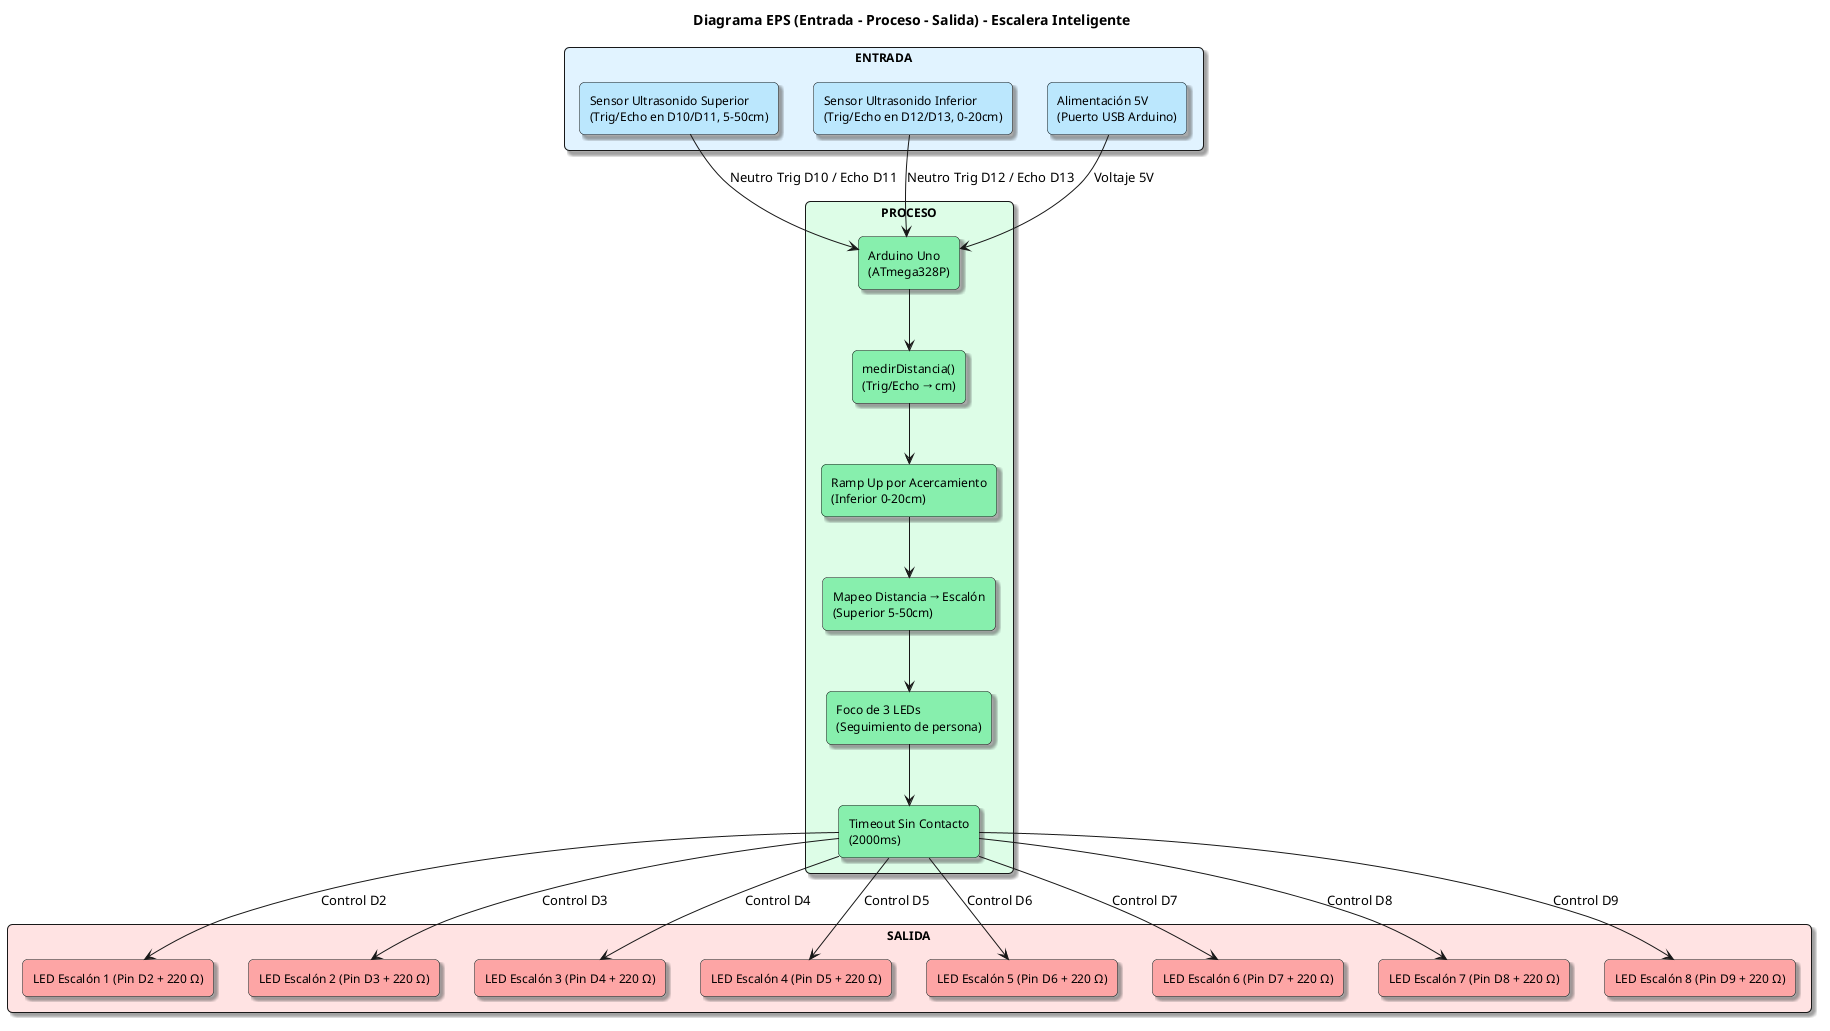
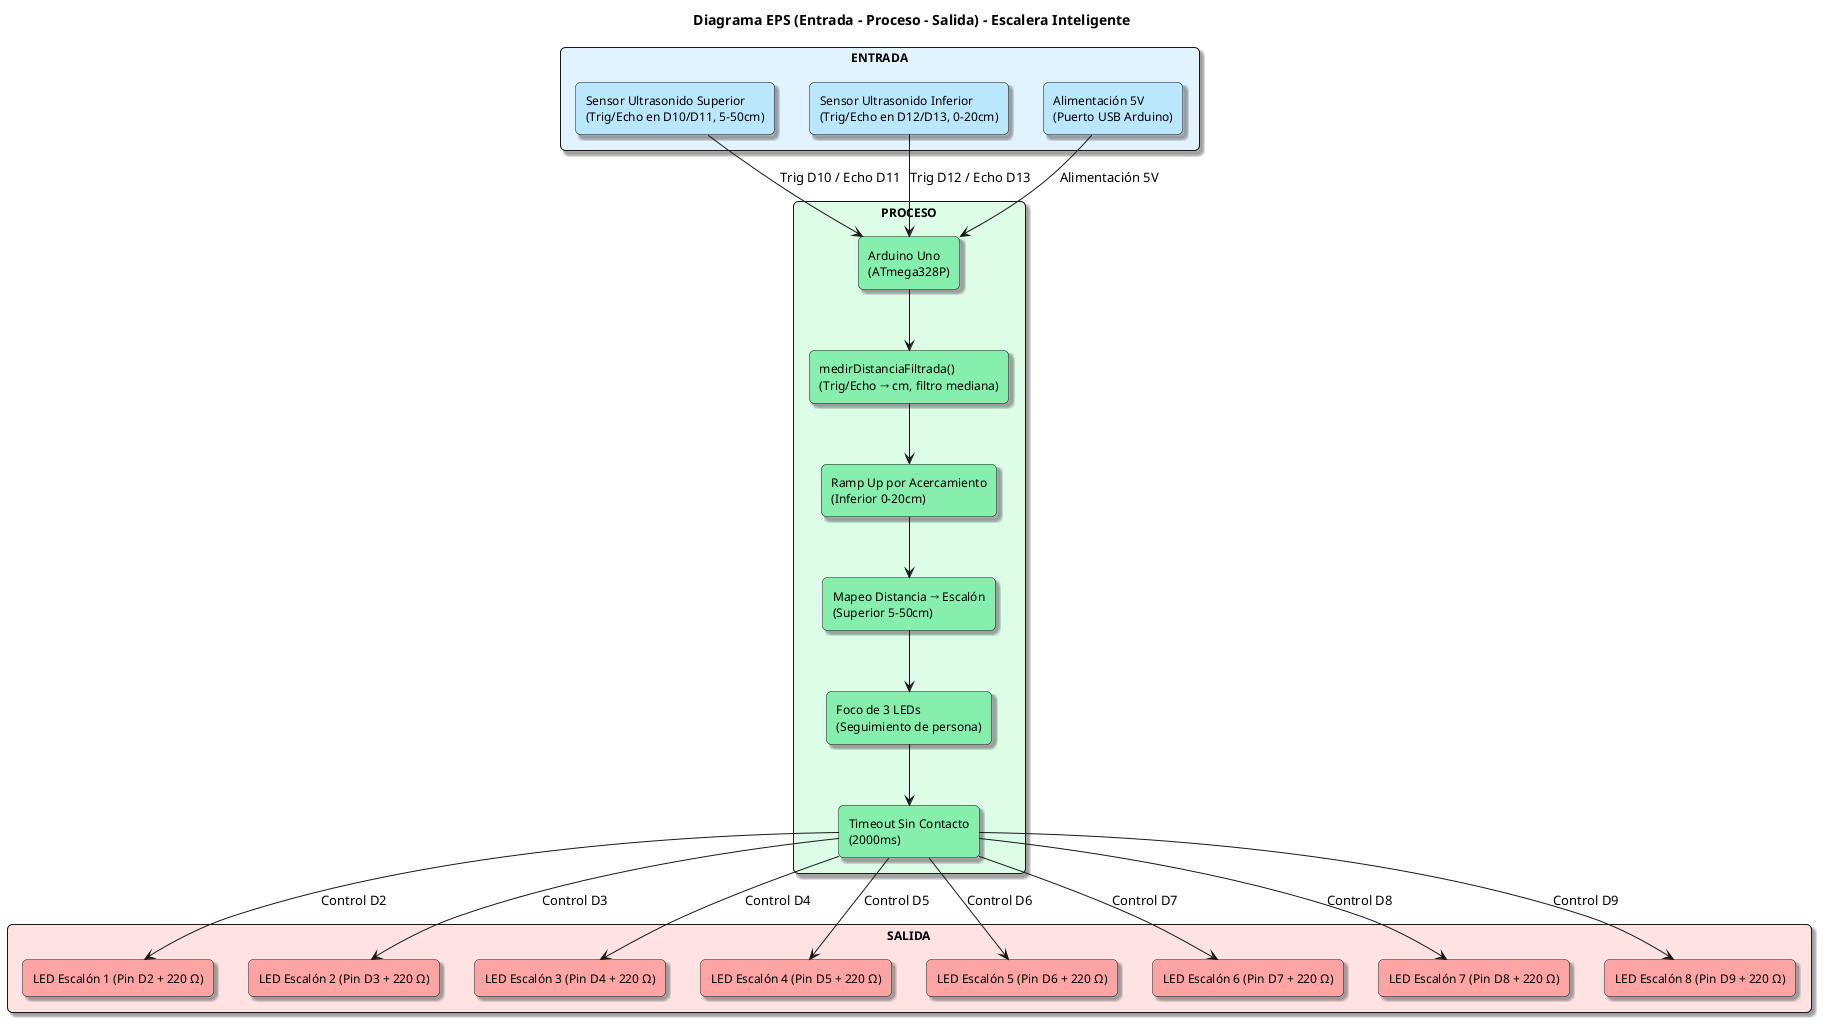
docs: actualizar documentacion, diagramas y agregar enlace al simulador Tinkercad

Changed region(s): [[0.4049, 0.1552, 0.623, 0.8691], [0.3115, 0.0621, 0.6852, 0.1552], [0.4672, 0.031, 0.4984, 0.0621]]

diff --git a/docs/logica.md b/docs/logica.md
@@ -48,30 +48,45 @@ Describe la interacción entre el hardware físico (sensores), el microcontrolad
 ## 4. Conceptos Clave de Implementación
 
 ### Medición de Distancia (`medirDistancia`)
-Función estándar para HC-SR04: emite pulso de trig (10 µs), mide el ancho del pulso de echo con `pulseIn()` y convierte a centímetros:
+Función básica para HC-SR04: emite pulso de Trigger (10 µs), mide el ancho del pulso en Echo con `pulseIn()` (timeout de 10 ms) y convierte a centímetros:
 ```cpp
-long duracion = pulseIn(pinEcho, HIGH, 30000);
+long duracion = pulseIn(pinEcho, HIGH, 10000);
 if (duracion == 0) return -1.0;      // sin eco (objeto fuera de rango)
 return duracion * 0.034 / 2.0;       // cm
 ```
-Si no hay eco en 30 ms, se devuelve `-1` para ignorar la lectura.
 
-### Ramp Up por Acercamiento (sensor inferior)
-Mientras la persona se acerca (distancia de 20 cm a 0 cm), aumenta el número de LEDs encendidos desde la parte baja:
+### Filtrado por Mediana (`medirDistanciaFiltrada`)
+Para evitar lecturas erráticas producidas por ruido acústico o reflexiones, se toman 3 muestras consecutivas (separadas por 40 ms) y se obtiene la mediana ordenando el arreglo:
 ```cpp
-int cantidadLEDs = map(distanciaInferior, 20, 0, 1, 8);
-cantidadLEDs = constrain(cantidadLEDs, 1, 8);
+float medirDistanciaFiltrada(int pinTrig, int pinEcho) {
+  float muestras[CANTIDAD_MUESTRAS];
+  for (int i = 0; i < CANTIDAD_MUESTRAS; i++) {
+    muestras[i] = medirDistancia(pinTrig, pinEcho);
+    if (i < CANTIDAD_MUESTRAS - 1) delayMicroseconds(40000);
+  }
+  // Ordenamiento para seleccionar la mediana
+  ...
+  return muestras[CANTIDAD_MUESTRAS / 2];
+}
 ```
 
-### Mapeo distancia → escalón (sensor superior)
-La distancia se convierte en el escalón donde se encuentra la persona:
+### Ramp Up por Acercamiento (`encenderRango`)
+Mientras la persona se acerca (distancia de 20 cm a 0 cm en sensor inferior), se encienden progresivamente los LEDs desde la base:
 ```cpp
-int escalonActual = map(distanciaSuperior, 5, 50, 7, 0);  // 5cm=arriba, 50cm=abajo
-escalonActual = constrain(escalonActual, 0, 7);
+int cantidadLEDs = map(distanciaInferior, DIST_INFERIOR_MAX, 0, 1, CANTIDAD_LEDS);
+cantidadLEDs = constrain(cantidadLEDs, 1, CANTIDAD_LEDS);
+encenderRango(cantidadLEDs);
 ```
 
-### Foco de 3 LEDs
-Se encienden el escalón actual más sus vecinos (radio = 1); el resto quedan apagados, por lo que las luces **siguen** a la persona en ambas direcciones:
+### Mapeo Distancia → Escalón (Sensor Superior)
+La distancia medida por el sensor superior se convierte en el índice del escalón donde se encuentra la persona:
+```cpp
+int escalonActual = map(distanciaSuperior, DIST_SUPERIOR_MIN, DIST_SUPERIOR_MAX, CANTIDAD_LEDS - 1, 0);  // 5cm=arriba (7), 50cm=abajo (0)
+escalonActual = constrain(escalonActual, 0, CANTIDAD_LEDS - 1);
+```
+
+### Foco Móvil de 3 LEDs (`encenderFoco`)
+Se encienden el escalón actual y sus vecinos adyacentes (`radio = 1`); el resto de escalones se mantienen apagados, logrando que el foco lumínico acompañe dinámicamente el desplazamiento:
 ```cpp
 void encenderFoco(int centro, int radio) {
   for (int i = 0; i < CANTIDAD_LEDS; i++) {
@@ -81,13 +96,26 @@ void encenderFoco(int centro, int radio) {
 }
 ```
 
-### Timeout sin contacto
-Si el sensor superior no detecta objeto durante 2 s, el sistema apaga todo y vuelve a `ESPERANDO`.
+### Timeout sin Contacto
+Si el sensor superior no detecta presencia durante más de 2000 ms (`TIEMPO_SIN_CONTACTO_MAX`), se invoca `apagarTodos()` y el sistema retorna al estado `ESPERANDO`.
 
 ---
 
 ## 5. Parámetros del Sistema
 
-- **Alcance inferior (`DIST_INFERIOR_MAX`):** 20 cm.
-- **Alcance superior (`DIST_SUPERIOR_MIN`/`MAX`):** 5 a 50 cm.
-- **Timeout sin contacto (`TIEMPO_SIN_CONTACTO_MAX`):** 2000 ms.
+| Parámetro | Constante | Valor | Descripción |
+|-----------|-----------|:-----:|-------------|
+| Cantidad de LEDs | `CANTIDAD_LEDS` | 8 | Un LED por escalón (D2 a D9) |
+| Alcance inferior | `DIST_INFERIOR_MAX` | 20.0 cm | Distancia de activación para acercamiento |
+| Alcance superior mín. | `DIST_SUPERIOR_MIN` | 5.0 cm | Distancia correspondiente al escalón superior (8) |
+| Alcance superior máx. | `DIST_SUPERIOR_MAX` | 50.0 cm | Distancia correspondiente al escalón inferior (1) |
+| Timeout sin contacto | `TIEMPO_SIN_CONTACTO_MAX` | 2000 ms | Tiempo de espera antes de apagar luces |
+| Muestras de filtro | `CANTIDAD_MUESTRAS` | 3 | Lecturas para cálculo de mediana |
+
+---
+
+## 6. Probar en Simulador
+
+Puedes validar y observar el comportamiento de la máquina de estados en el simulador interactivo:
+
+🔗 **[Abrir Simulación en Tinkercad](https://www.tinkercad.com/things/0pheYHJu6yR-lus-escaleras-arduino/editel?returnTo=https%3A%2F%2Fwww.tinkercad.com%2Fdashboard&sharecode=S3InYTMaIszsQmBVlUAJu1_tCbUvaevH3J8RIkOQQLU)**

diff --git a/README.md b/README.md
@@ -18,11 +18,21 @@ a la persona con un foco de luz mientras sube o baja.
 
 | Cantidad | Componente | Conexión |
 |:--------:|------------|----------|
-| 1 | Arduino Uno | Alimentación por USB |
+| 1 | Arduino Uno | Alimentación por USB (5V) |
 | 8 | LED Blanco (Escalones 1 al 8) | Pines D2 a D9 |
 | 8 | Resistencia 220 Ω | En serie con cada LED |
-| 2 | Sensor Ultrasonido HC-SR04 | Superior Trig/echo D10/D11, Inferior Trig/echo D12/D13 |
+| 2 | Sensor Ultrasonido HC-SR04 | Superior Trig/Echo D10/D11, Inferior Trig/Echo D12/D13 |
 | — | Protoboard y Jumpers | Interconexión de componentes |
+
+---
+
+## 🌐 Simulación Interactiva en Tinkercad
+
+Puedes probar el circuito completo y ejecutar la simulación de manera interactiva directamente desde el navegador:
+
+🔗 **[Abrir Simulador en Tinkercad](https://www.tinkercad.com/things/0pheYHJu6yR-lus-escaleras-arduino/editel?returnTo=https%3A%2F%2Fwww.tinkercad.com%2Fdashboard&sharecode=S3InYTMaIszsQmBVlUAJu1_tCbUvaevH3J8RIkOQQLU)**
+
+![Circuito en Tinkercad](docs/imagenes/circuito-tinkercad.png)
 
 ---
 

diff --git a/docs/circuito.md b/docs/circuito.md
@@ -1,6 +1,16 @@
 # Circuito Eléctrico y Conexiones
 
-Este documento detalla la distribución de componentes, el esquema de conexión y el diagrama EPS del proyecto **Escalera Inteligente**.
+Este documento detalla la distribución de componentes, el esquema de conexión, el montaje en simulador y el diagrama EPS del proyecto **Escalera Inteligente**.
+
+---
+
+## 🌐 Simulación y Esquema en Tinkercad
+
+El circuito completo implementado con Arduino Uno, 8 LEDs, resistencias de $220\,\Omega$ y 2 sensores ultrasónicos HC-SR04 está disponible para interactuar y probar en Tinkercad:
+
+🔗 **[Abrir Circuito en Simulador Tinkercad](https://www.tinkercad.com/things/0pheYHJu6yR-lus-escaleras-arduino/editel?returnTo=https%3A%2F%2Fwww.tinkercad.com%2Fdashboard&sharecode=S3InYTMaIszsQmBVlUAJu1_tCbUvaevH3J8RIkOQQLU)**
+
+![Circuito en Tinkercad](imagenes/circuito-tinkercad.png)
 
 ---
 

diff --git a/docs/index.md b/docs/index.md
@@ -11,6 +11,16 @@ superior sigue a la persona con un foco de 3 LEDs mientras sube o baja.
 
 ---
 
+## 🌐 Simulación Interactiva en Tinkercad
+
+El circuito y la lógica de control están disponibles para su ejecución y prueba interactiva en Tinkercad:
+
+🔗 **[Abrir Simulación en Tinkercad](https://www.tinkercad.com/things/0pheYHJu6yR-lus-escaleras-arduino/editel?returnTo=https%3A%2F%2Fwww.tinkercad.com%2Fdashboard&sharecode=S3InYTMaIszsQmBVlUAJu1_tCbUvaevH3J8RIkOQQLU)**
+
+![Circuito en Tinkercad](imagenes/circuito-tinkercad.png)
+
+---
+
 ## Componentes del Hardware
 
 | Cantidad | Componente | Función | Conexión Arduino |
